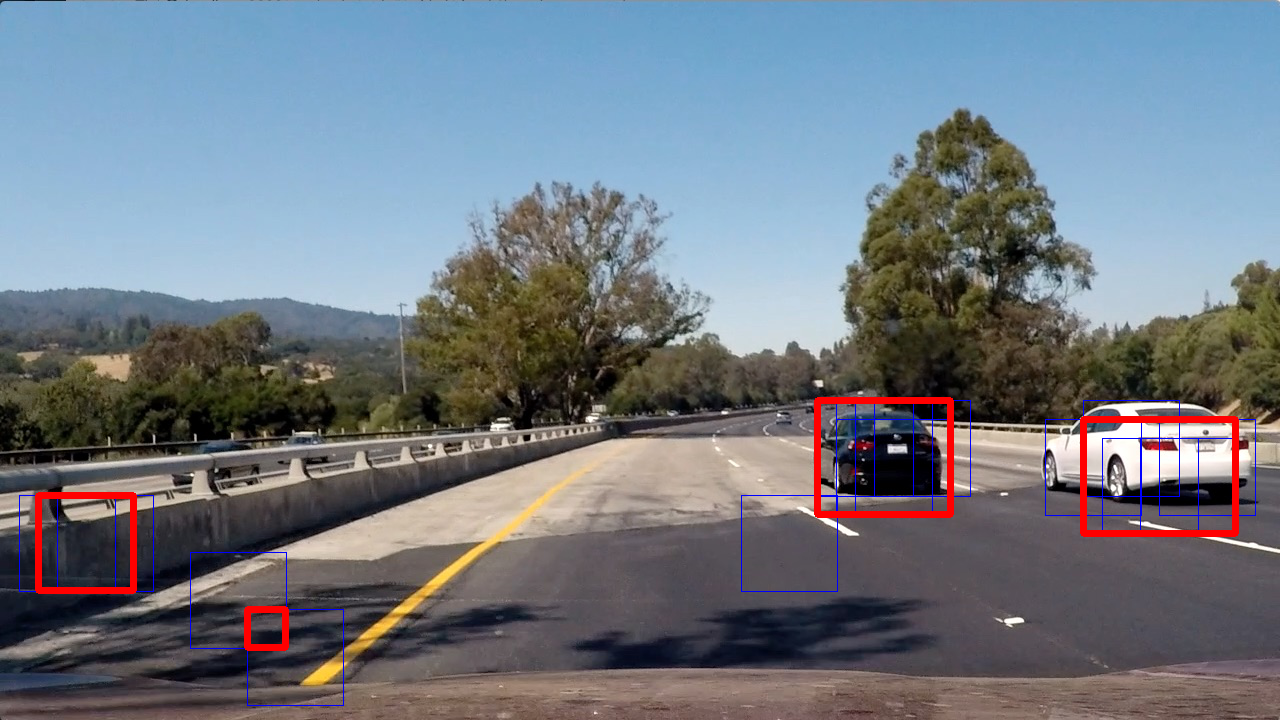
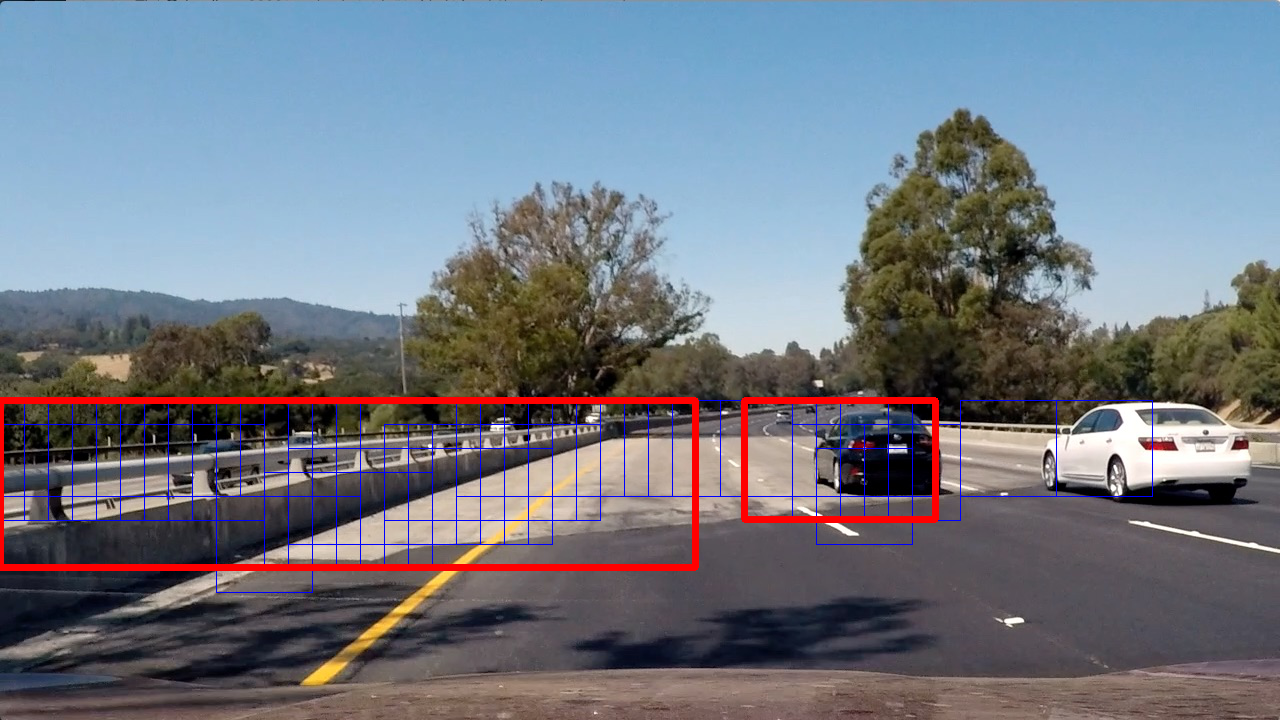
find_cars works now, still needs some finetuning

Changed region(s): [[0.0, 0.55, 0.75, 0.825], [0.8438, 0.55, 0.9688, 0.7639], [0.1875, 0.825, 0.25, 0.9167]]

diff --git a/Term1/Project5_Vehicle_Detection_and_Tracking_Project/vedet_main.py b/Term1/Project5_Vehicle_Detection_and_Tracking_Project/vedet_main.py
@@ -284,7 +284,7 @@ if doitonthevideo == False:
         hot_windows = find_cars2(image, ystart, ystop, scale, svc, X_scaler, orient, pix_per_cell, cell_per_block, spatial_size, hist_bins)
 
         window_img = draw_boxes(draw_image, hot_windows, color=(0, 0, 255), thick=1)
-        heat = np.zeros_like(dst[:, :, 0]).astype(np.fgloat)
+        heat = np.zeros_like(dst[:, :, 0]).astype(np.float)
         heat = add_heat(heat, hot_windows)
         # Apply threshold to help remove false positives
         heat = apply_threshold(heat, 1)
